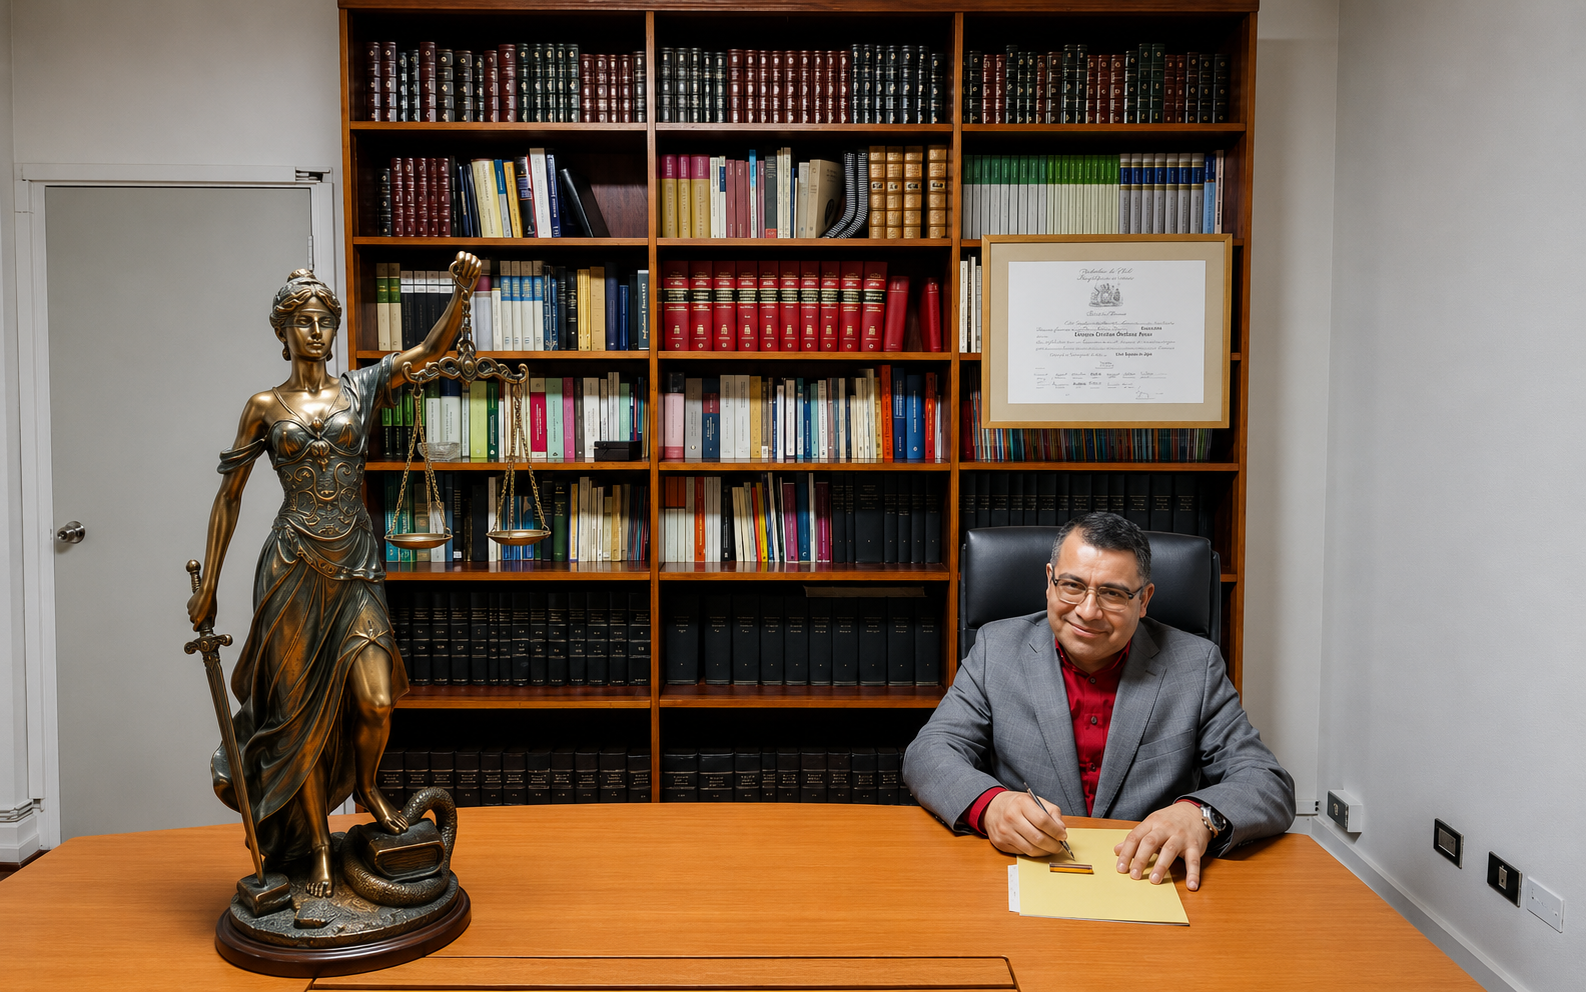
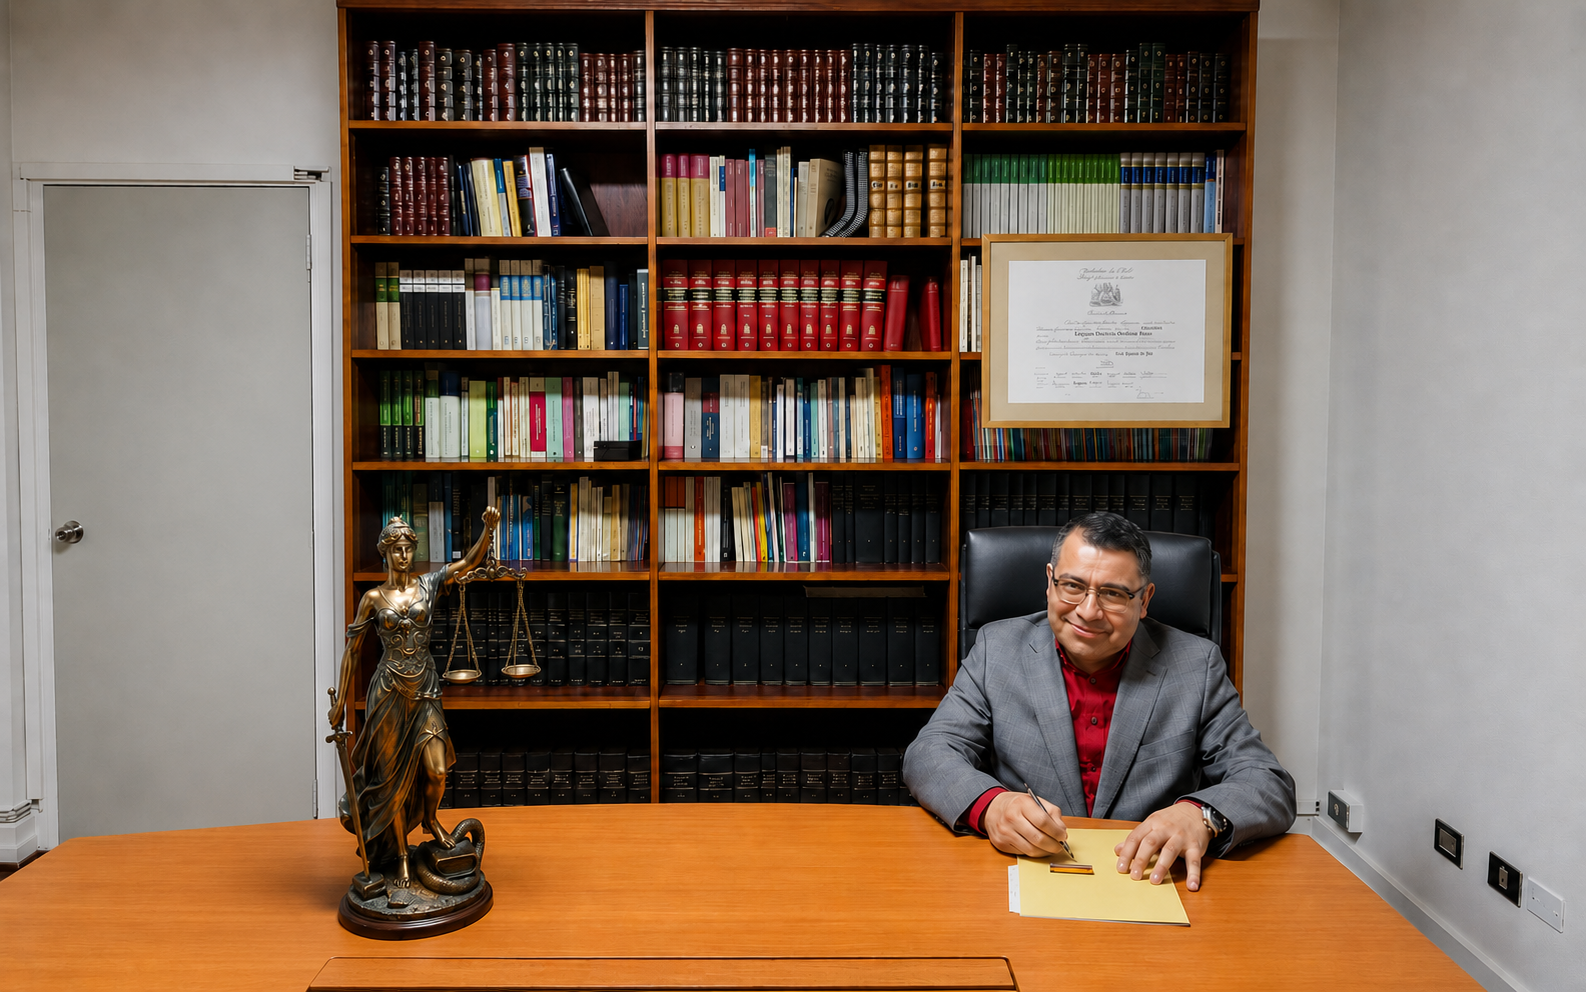
modificaciones menores a Quienes Somos

diff --git a/src/lib/components/QuienesSomos.svelte b/src/lib/components/QuienesSomos.svelte
@@ -14,7 +14,7 @@
 			<div>
 				<h3>Fundación e Historia</h3>
 				<p>
-					SUDEMANDA Abogados surge el año 2008 tras la consolidación de la trayectoria de uno
+					Sudemanda Abogados surge el año 2008 tras la consolidación de la trayectoria de uno
 					de sus socios fundadores, proveniente de destacados estudios jurídicos de Santiago,
 					así como de organizaciones y empresas vinculadas a las áreas del Derecho Civil,
 					Familia, Penal y Comercial.
@@ -57,10 +57,13 @@
 		margin: 0 auto;
 	}
 
-	section h2,
 	section h3,
 	.lead {
 		color: var(--text-white);
+	}
+
+	#quienes-somos h2 {
+		color: var(--blue-dark);
 	}
 
 	.lead {

diff --git a/src/lib/styles/global.css b/src/lib/styles/global.css
@@ -210,7 +210,7 @@ header.scrolled {
 
 footer {
 	padding: 3rem 1.5rem;
-	background-color: var(--bg-primary);
+	background-color: var(--blue-primary);
 	color: var(--text-white);
 }
 
